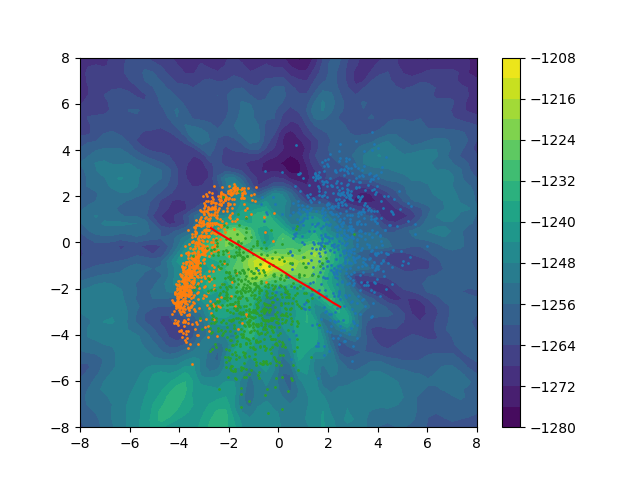
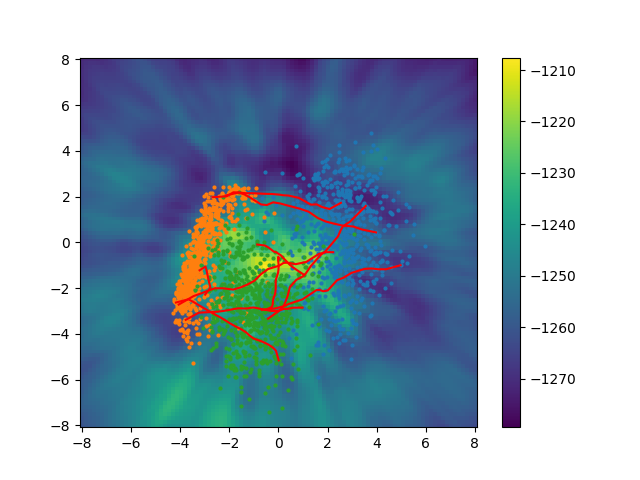
stuff

diff --git a/project2.py b/project2.py
@@ -209,7 +209,7 @@ def proximity(curve_points, latent):
     return pd_min_max
 
 class EnsembleVAE:
-    def __init__(self, ensemble_path, device='cuda'):
+    def __init__(self, ensemble_path, device='cuda', n_models=None):
         models = []
         for file in os.listdir(ensemble_path):
             path = os.path.join(ensemble_path, file)
@@ -219,7 +219,10 @@ class EnsembleVAE:
             single_model.eval()
             models.append(single_model)
         
-        self.models = models
+        if n_models is not None:
+            self.models = models[:n_models]
+        else:
+            self.models=models
     
     def encoder(self, x):
         return [model.encoder(x) for model in self.models]
@@ -230,6 +233,7 @@ class EnsembleVAE:
         return sum([model.encoder(x).mean for model in self.models])/len(self.models)
     
     def decoder_entropy(self, z):
+        # maybe convert to discrete bernoulli before getting entropy
         return sum([model.decoder(z).entropy().mean().item() for model in self.models])/len(self.models)   
 
     def decoder_curve_energy(self, curve_points, N=10):
@@ -242,9 +246,12 @@ class EnsembleVAE:
             l, k = torch.randint(high=len(self.models), size=(2,))
             f_l = self.models[l].decoder
             f_k = self.models[k].decoder
-            kl = KL(f_l(curve_points[1:]), f_k(curve_points[:-1]))
+            # convert these to standard bernoulli (not continuous)
+            kl = KL(f_l(curve_points[:-1]), f_k(curve_points[1:]))
+            
             total_energy += kl.sum()
-        return total_energy # could divide by number of models here
+        energy = total_energy / N
+        return energy # could divide by number of models here
 
 if __name__ == "__main__":
     from torchvision import datasets, transforms
@@ -254,13 +261,13 @@ if __name__ == "__main__":
     # Parse arguments
     import argparse
     parser = argparse.ArgumentParser()
-    parser.add_argument('mode', type=str, default='train', choices=['train', 'plot','train_ensemble'], help='what to do when running the script (default: %(default)s)')
+    parser.add_argument('mode', type=str, default='train', choices=['train', 'plot', 'proximity'], help='what to do when running the script (default: %(default)s)')
     parser.add_argument('--model', type=str, default='model.pt', help='file to save model to or load model from (default: %(default)s)')
-    parser.add_argument('--n_ensemble', type=int, default=1, help='Number of models in the ensemble')
+    parser.add_argument('--n_ensembles', type=int, default=1, help='Number of models in the ensemble')
     parser.add_argument('--plot', type=str, default='plot.png', help='file to save latent plot in (default: %(default)s)')
     parser.add_argument('--device', type=str, default='cpu', choices=['cpu', 'cuda', 'mps'], help='torch device (default: %(default)s)')
     parser.add_argument('--batch-size', type=int, default=32, metavar='N', help='batch size for training (default: %(default)s)')
-    parser.add_argument('--epochs', type=int, default=150, metavar='N', help='number of epochs to train (default: %(default)s)')
+    parser.add_argument('--epochs', type=int, default=15, metavar='N', help='number of epochs to train (default: %(default)s)')
     parser.add_argument('--latent-dim', type=int, default=2, metavar='N', help='dimension of latent variable (default: %(default)s)')
 
     args = parser.parse_args()
@@ -319,7 +326,8 @@ if __name__ == "__main__":
     if args.mode == 'train':
         # Define optimizer
         
-        os.makedirs(args.model)
+        if not os.path.exists(args.model):
+            os.makedirs(args.model)
         for i in range(args.n_ensembles):
             model = VAE(prior, BernoulliDecoder(new_decoder()), encoder).to(device)
             optimizer = torch.optim.Adam(model.parameters(), lr=1e-3)
@@ -329,7 +337,7 @@ if __name__ == "__main__":
             # Save model
             model_path = os.path.join(args.model, f'{i}.pt')
             torch.save(model.state_dict(), model_path)
-
+    
     elif args.mode == 'plot':
         import matplotlib.pyplot as plt
 
@@ -347,28 +355,29 @@ if __name__ == "__main__":
             labels = torch.concatenate(labels, dim=0)
 
         range_: tuple[int, int] = (-8, 8)
-        num_points: int = 50
-        x, y = np.linspace(*range_, 50), np.linspace(*range_, 50)
+        resolution: int = 100
+        x, y = np.linspace(*range_, resolution), np.linspace(*range_, resolution)
         X, Y = np.meshgrid(x, y)
 
-            ## Heatmap of entropy of the decoder
+        ## Heatmap of entropy of the decoder
         Z = np.zeros_like(X)
-        for i in range(num_points):
-            for j in range(num_points):
+        for i in range(resolution):
+            for j in range(resolution):
                 z = torch.tensor([X[i, j], Y[i, j]]).float().cuda()
                 Z[i, j] = model.decoder_entropy(z)
 
-        plt.pcolormesh(Z)
+        plt.pcolormesh(X, Y, Z)
         plt.colorbar()
 
         ## Plot training data
         for k in range(num_classes):
             idx = labels == k
-            plt.scatter(latents[idx, 0], latents[idx, 1], s=2)
+            plt.scatter(latents[idx, 0], latents[idx, 1], s=4)
 
         # Plot random geodesics
-        num_curves: int = 3
+        num_curves: int = 10
         curve_indices = torch.randint(num_train_data, (num_curves, 2))  # (num_curves) x 2
+        all_curve_points=[]
         for k in range(num_curves):
             i = curve_indices[k, 0]
             j = curve_indices[k, 1]
@@ -379,8 +388,25 @@ if __name__ == "__main__":
             # z1 = latents[latents.argmax(dim=0)]
             
             # TODO: Compute, and plot geodesic between z0 and z1
-            ts = compute_geodesic_dm(z0, z1,energy_function=model.decoder_curve_energy, N_pieces=20, steps=100, lr=3e-4)
+            ts = compute_geodesic_dm(z0, z1,energy_function=model.decoder_curve_energy, N_pieces=20, steps=100, lr=3e-3)
+            all_curve_points.append(ts)
             plt.plot(ts.detach().numpy()[:,0], ts.detach().numpy()[:,1], color='r')
 
         plt.savefig(args.plot)
+        plt.clf()
+    
+    elif args.mode == 'proximity':  
+        
+        import matplotlib.pyplot as plt
+        proximities=[]
+
+        for i in range(10):
+            model = EnsembleVAE(args.model, device=args.device,n_models=i+1)
+            ts = compute_geodesic_dm(z0, z1,energy_function=model.decoder_curve_energy, N_pieces=20, steps=100, lr=3e-3)
+            all_curve_points.append(ts)
+
+            for curve_points in all_curve_points:
+                p = proximity(curve_points, latents)
+                proximities.append(p)
+
 

diff --git a/curve.py b/curve.py
@@ -181,7 +181,7 @@ def compute_geodesic_dm(x1, x2, energy_function, N_pieces=50, steps=20, lr=.1, p
 
             all_curve_points = torch.cat([x1.unsqueeze(0), curve_points_optim, x2.unsqueeze(0)]).to(device)
 
-            energy = energy_function(all_curve_points)
+            energy = energy_function(all_curve_points) / N_pieces
             energy.backward()
             opt.step()
             
